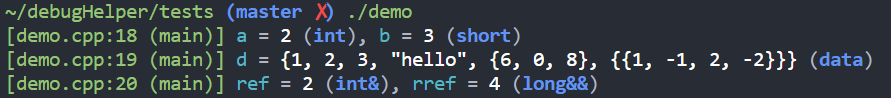
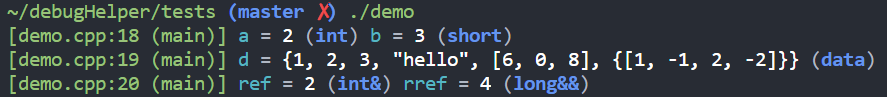
use [] format for container

diff --git a/debug.hpp b/debug.hpp
@@ -774,7 +774,7 @@ std::enable_if_t<std::is_enum_v<Enum>, void> print(std::ostream& os,
 template <typename Container>
 std::enable_if_t<is_container_v<Container>, void> print(
     std::ostream& os, const Container& value) {
-  os << "{";
+  os << "[";
   const size_t size = std::size(value);
   const size_t n = std::min(config::get_container_length(), size);
   size_t i = 0;
@@ -790,7 +790,7 @@ std::enable_if_t<is_container_v<Container>, void> print(
     os << " size:" << size;
   }
 
-  os << "}";
+  os << "]";
 }
 
 template <typename Aggregate>
